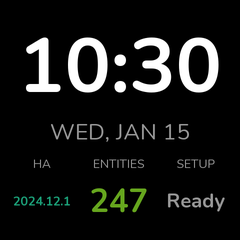
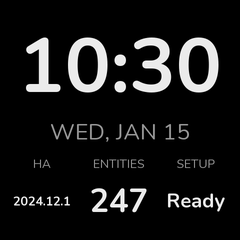
fix: welcome + notify layouts read from active theme
The welcome screen and notification screens were hardcoding RGB
constants (COLOR_CYAN / COLOR_LIME / COLOR_GRAY / COLOR_WHITE) for
text and icon colors, which meant they always rendered with the same
teal/lime palette regardless of which theme the user picked — the
notification icon stayed teal under classic, neon, light, etc.

Drop the explicit colors so TextWidget falls back to
theme.text_primary and IconWidget falls back to the theme's accent
color. The welcome screen footer now reads as three uniform white
values under tertiary captions (the watchOS three-band pattern)
instead of the previous green/green/white mix, and notifications
retint correctly when the user switches themes.

Changed region(s): [[0.3792, 0.7583, 0.6125, 0.9042], [0.7, 0.7875, 0.9333, 0.875], [0.0583, 0.8167, 0.2917, 0.875]]

diff --git a/custom_components/geekmagic/coordinator.py b/custom_components/geekmagic/coordinator.py
@@ -20,10 +20,6 @@ from homeassistant.util import dt as dt_util
 
 from .const import (
     BACKOFF_LOG_INTERVAL,
-    COLOR_CYAN,
-    COLOR_GRAY,
-    COLOR_LIME,
-    COLOR_WHITE,
     CONF_DISPLAY_ROTATION,
     CONF_JPEG_QUALITY,
     CONF_LAYOUT,
@@ -374,64 +370,37 @@ class GeekMagicCoordinator(DataUpdateCoordinator):
         """
         layout = HeroLayout(footer_slots=3, hero_ratio=0.65, padding=8, gap=8)
 
-        # Hero: Clock widget showing current time
+        # Hero: Clock widget showing current time. No explicit color — the
+        # widget defaults to theme.text_primary so the welcome screen reads
+        # correctly under light themes too.
         clock = ClockWidget(
             WidgetConfig(
                 widget_type="clock",
                 slot=0,
-                color=COLOR_WHITE,
                 options={"show_date": True, "show_seconds": False},
             )
         )
         layout.set_widget(0, clock)
 
-        # Footer slot 1: HA version
-        ha_version = TextWidget(
-            WidgetConfig(
-                widget_type="text",
-                slot=1,
-                label="HA",
-                color=COLOR_CYAN,
-                options={
-                    "text": self._get_ha_version(),
-                    "size": "small",
-                    "align": "center",
-                },
+        # Footer: HA version, entity count, setup hint — uniform
+        # text_primary values under text_secondary captions, in the
+        # watchOS three-band style.
+        for slot, label, text in (
+            (1, "HA", self._get_ha_version()),
+            (2, "Entities", str(self._get_entity_count())),
+            (3, "Setup", "Ready"),
+        ):
+            layout.set_widget(
+                slot,
+                TextWidget(
+                    WidgetConfig(
+                        widget_type="text",
+                        slot=slot,
+                        label=label,
+                        options={"text": text, "size": "small", "align": "center"},
+                    )
+                ),
             )
-        )
-        layout.set_widget(1, ha_version)
-
-        # Footer slot 2: Entity count
-        entity_count = TextWidget(
-            WidgetConfig(
-                widget_type="text",
-                slot=2,
-                label="Entities",
-                color=COLOR_LIME,
-                options={
-                    "text": str(self._get_entity_count()),
-                    "size": "small",
-                    "align": "center",
-                },
-            )
-        )
-        layout.set_widget(2, entity_count)
-
-        # Footer slot 3: Setup hint
-        setup_hint = TextWidget(
-            WidgetConfig(
-                widget_type="text",
-                slot=3,
-                label="Setup",
-                color=COLOR_GRAY,
-                options={
-                    "text": "Ready",
-                    "size": "small",
-                    "align": "center",
-                },
-            )
-        )
-        layout.set_widget(3, setup_hint)
 
         return layout
 
@@ -807,13 +776,14 @@ class GeekMagicCoordinator(DataUpdateCoordinator):
                 )
 
             if not hero_widget:
-                # Default to Icon
+                # Default to Icon — IconWidget falls back to the active
+                # theme's accent color (matches whatever theme the user
+                # picked for the notification).
                 icon = data.get("icon", "mdi:bell-ring")
                 hero_widget = IconWidget(
                     WidgetConfig(
                         widget_type="icon",
                         slot=0,
-                        color=COLOR_CYAN,
                         options={
                             "icon": icon,
                             "size": "huge",  # This option is now supported by IconWidget
@@ -842,13 +812,12 @@ class GeekMagicCoordinator(DataUpdateCoordinator):
             )
 
         if not hero_widget:
-            # Default to Icon
+            # Default to Icon — falls back to the active theme's accent color.
             icon = data.get("icon", "mdi:bell-ring")
             hero_widget = IconWidget(
                 WidgetConfig(
                     widget_type="icon",
                     slot=0,
-                    color=COLOR_CYAN,
                     options={
                         "icon": icon,
                         "size": "huge",  # Force huge icon
@@ -857,12 +826,11 @@ class GeekMagicCoordinator(DataUpdateCoordinator):
             )
         layout.set_widget(0, hero_widget)
 
-        # Slot 1 (Footer): Message only (Title removed per request)
+        # Slot 1 (Footer): Message — defaults to theme.text_primary.
         text_widget = TextWidget(
             WidgetConfig(
                 widget_type="text",
                 slot=1,
-                color=COLOR_WHITE,
                 options={
                     "text": message,
                     "size": "medium",

diff --git a/scripts/generate_samples.py b/scripts/generate_samples.py
@@ -2056,64 +2056,34 @@ def generate_welcome_screen(renderer: Renderer, output_dir: Path) -> None:
     layout = HeroLayout(footer_slots=3, hero_ratio=0.65, padding=8, gap=8)
     img, draw = renderer.create_canvas()
 
-    # Hero: Clock widget showing current time
+    # Hero: Clock — no explicit color → theme.text_primary at render time.
     clock = ClockWidget(
         WidgetConfig(
             widget_type="clock",
             slot=0,
-            color=COLOR_WHITE,
             options={"show_date": True, "show_seconds": False},
         )
     )
     layout.set_widget(0, clock)
 
-    # Footer slot 1: HA version
-    ha_version = TextWidget(
-        WidgetConfig(
-            widget_type="text",
-            slot=1,
-            label="HA",
-            color=COLOR_CYAN,
-            options={
-                "text": "2024.12.1",
-                "size": "small",
-                "align": "center",
-            },
+    # Footer: HA version, entity count, setup hint — uniform text_primary
+    # values under text_secondary captions.
+    for slot, label, text in (
+        (1, "HA", "2024.12.1"),
+        (2, "Entities", "247"),
+        (3, "Setup", "Ready"),
+    ):
+        layout.set_widget(
+            slot,
+            TextWidget(
+                WidgetConfig(
+                    widget_type="text",
+                    slot=slot,
+                    label=label,
+                    options={"text": text, "size": "small", "align": "center"},
+                )
+            ),
         )
-    )
-    layout.set_widget(1, ha_version)
-
-    # Footer slot 2: Entity count
-    entity_count = TextWidget(
-        WidgetConfig(
-            widget_type="text",
-            slot=2,
-            label="Entities",
-            color=COLOR_LIME,
-            options={
-                "text": "247",
-                "size": "small",
-                "align": "center",
-            },
-        )
-    )
-    layout.set_widget(2, entity_count)
-
-    # Footer slot 3: Setup hint
-    setup_hint = TextWidget(
-        WidgetConfig(
-            widget_type="text",
-            slot=3,
-            label="Setup",
-            color=COLOR_GRAY,
-            options={
-                "text": "Ready",
-                "size": "small",
-                "align": "center",
-            },
-        )
-    )
-    layout.set_widget(3, setup_hint)
 
     layout.render(renderer, draw, build_widget_states(layout, hass))
     save_image(renderer, img, "00_welcome_screen", output_dir)